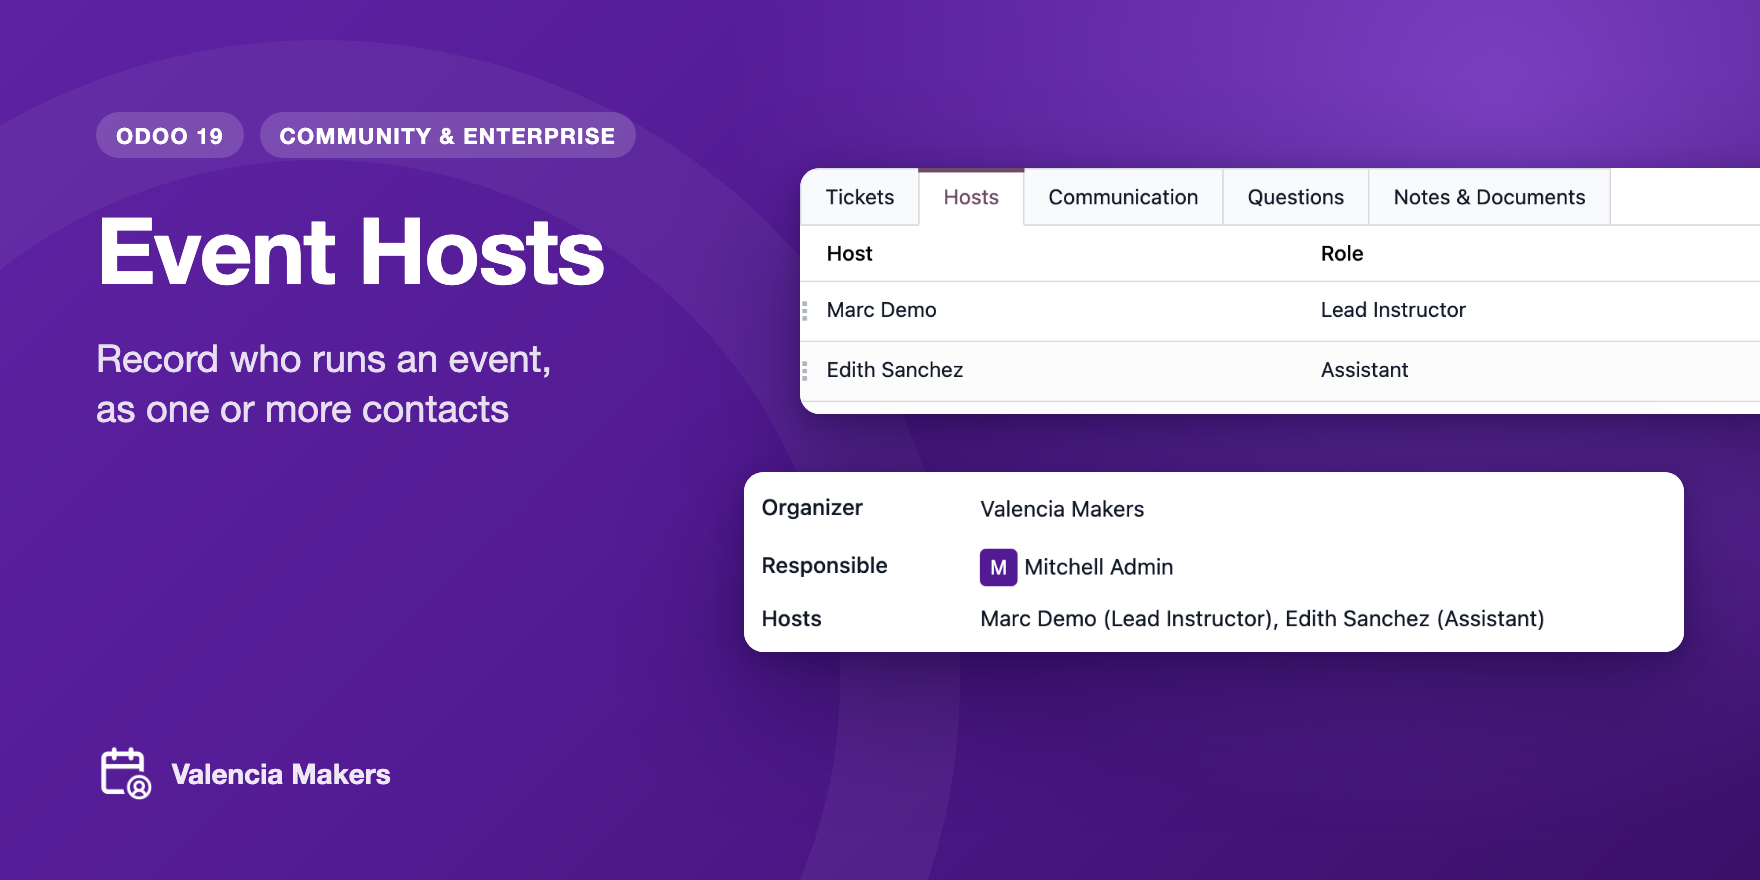
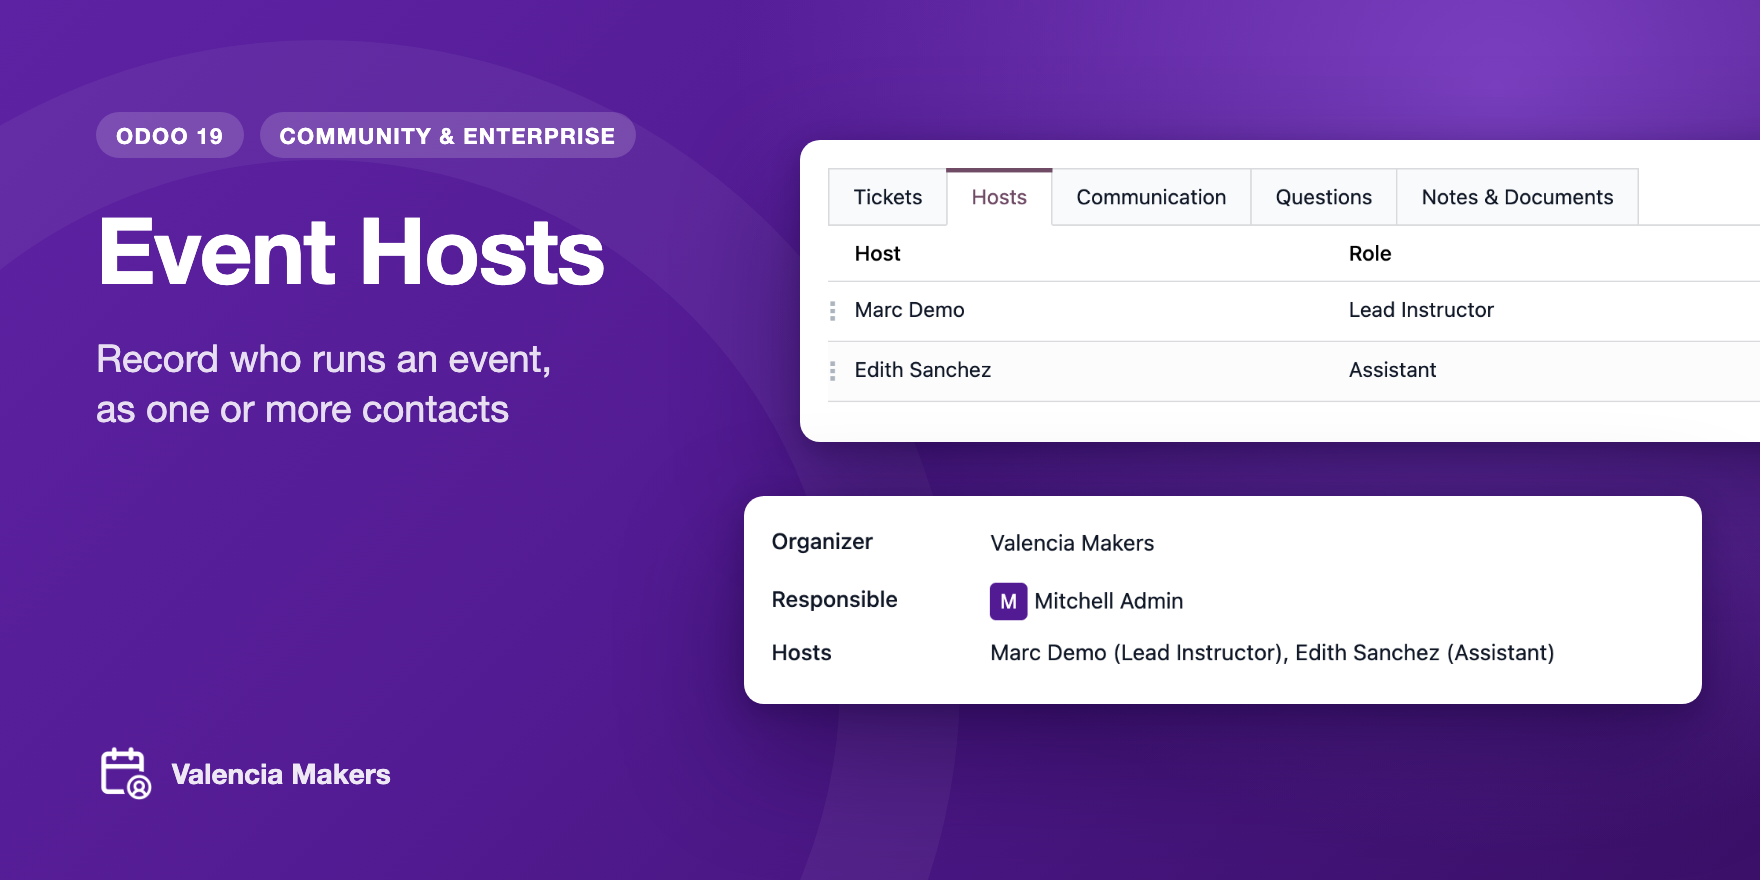
Pad both Event Hosts cover cards by the same 14px, as the deadline cover's front card is
- The Hosts tab's list sat flush against its card's edges, while the summary card's capture carried
  its own margin, scaled down to about 9px. Both cards now wrap their capture in a 14px white
  margin, with the summary capture's own margin trimmed so its labels start 14px in too.

diff --git a/tools/covers/vmk_event_host.html b/tools/covers/vmk_event_host.html
@@ -14,11 +14,15 @@
     <div class="brand"><img src="../../vmk_event_host/static/description/icon.png" alt="">Valencia Makers</div>
     <!-- Two cover-only captures from tools/covers/img/, made at 2x: behind, the Hosts tab's list;
          in front, the form's Organizer, Responsible, and Hosts rows, showing the summary in the set order. -->
-    <div class="shot" style="left: 400px; top: 84px; width: 530px; height: 123.4px;">
-        <img src="img/vmk_event_host_list.png" style="width: 530px; left: 0; top: 0;" alt="">
+    <div class="shot" style="left: 400px; top: 70px; width: 558px; height: 151.4px;">
+        <div style="position: absolute; left: 14px; top: 14px; width: 530px; height: 123.4px; overflow: hidden;">
+            <img src="img/vmk_event_host_list.png" style="width: 530px; left: 0; top: 0;" alt="">
+        </div>
     </div>
-    <div class="shot" style="left: 372px; top: 236px; width: 470px; height: 90.4px;">
-        <img src="img/vmk_event_host_summary.png" style="width: 470px; left: 0; top: 0;" alt="">
+    <div class="shot" style="left: 372px; top: 248px; width: 479.1px; height: 104.2px;">
+        <div style="position: absolute; left: 14px; top: 14px; width: 451.1px; height: 76.2px; overflow: hidden;">
+            <img src="img/vmk_event_host_summary.png" style="width: 470px; left: -9.4px; top: -9.4px;" alt="">
+        </div>
     </div>
 </div>
 </body>
